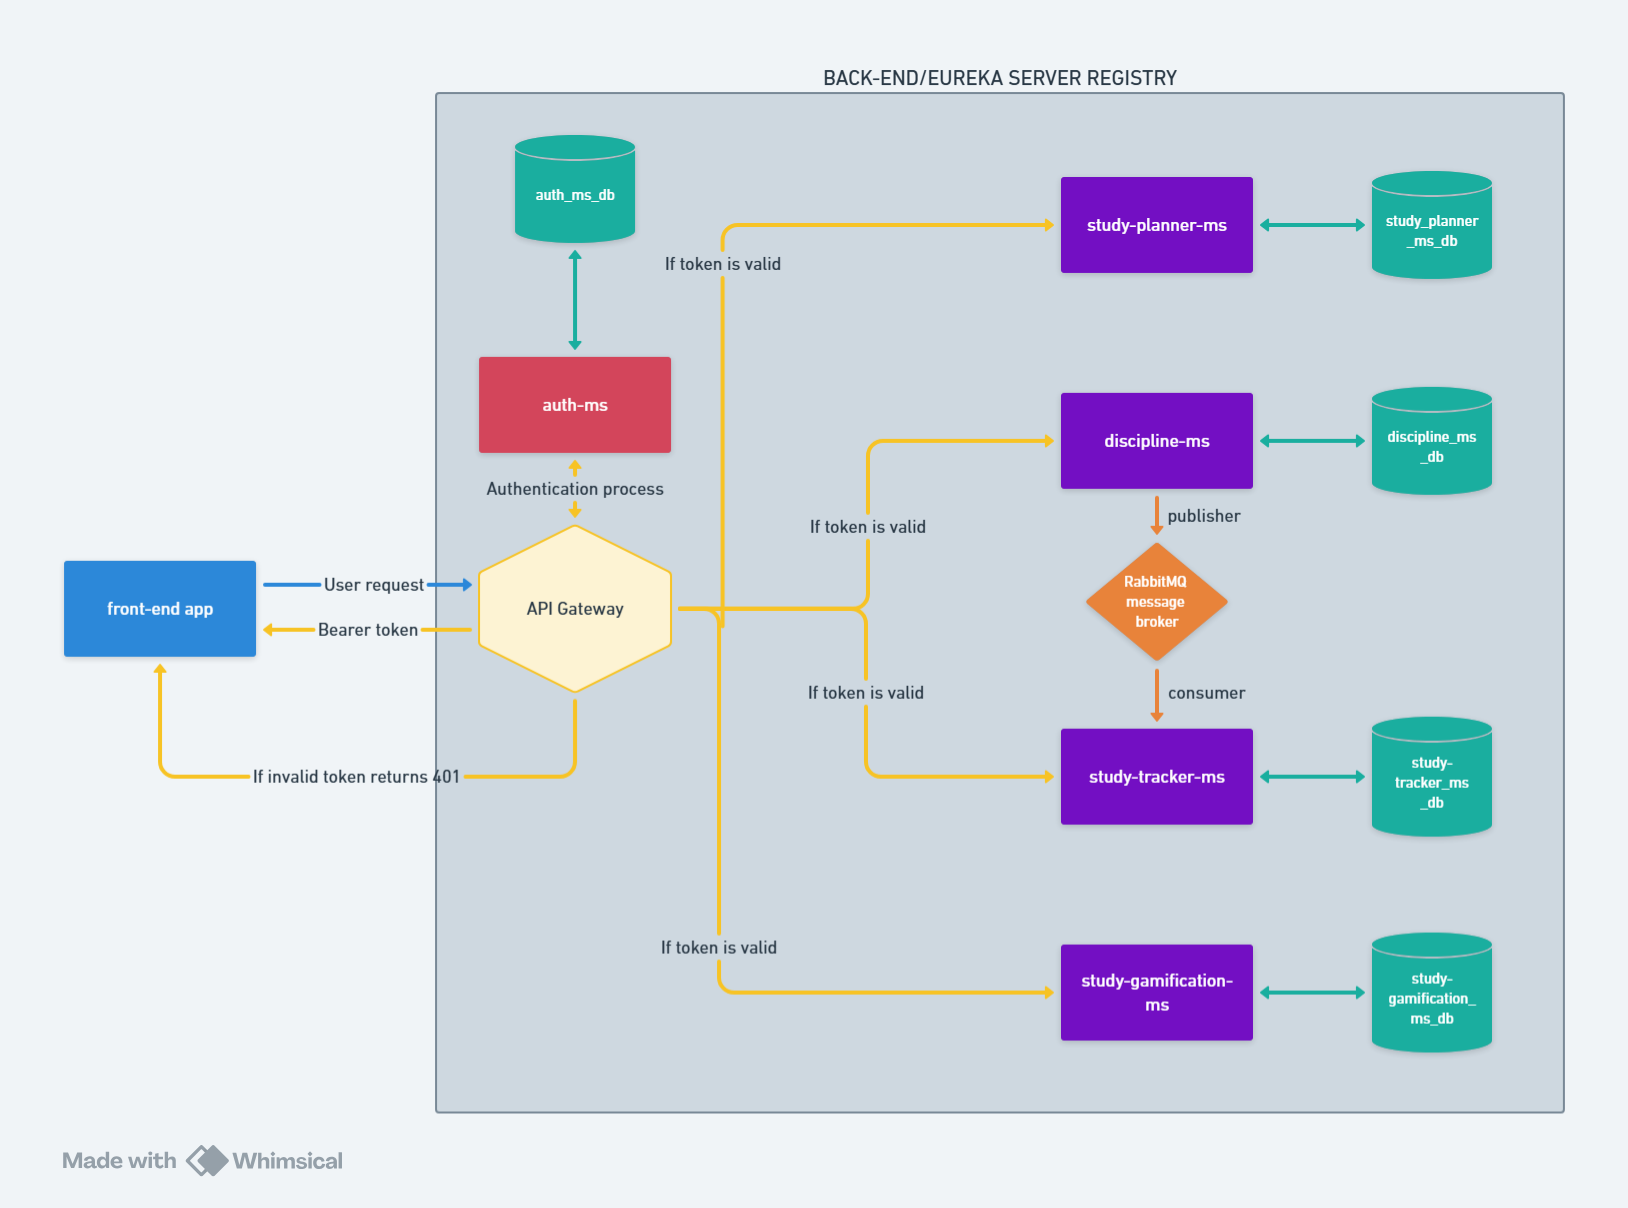
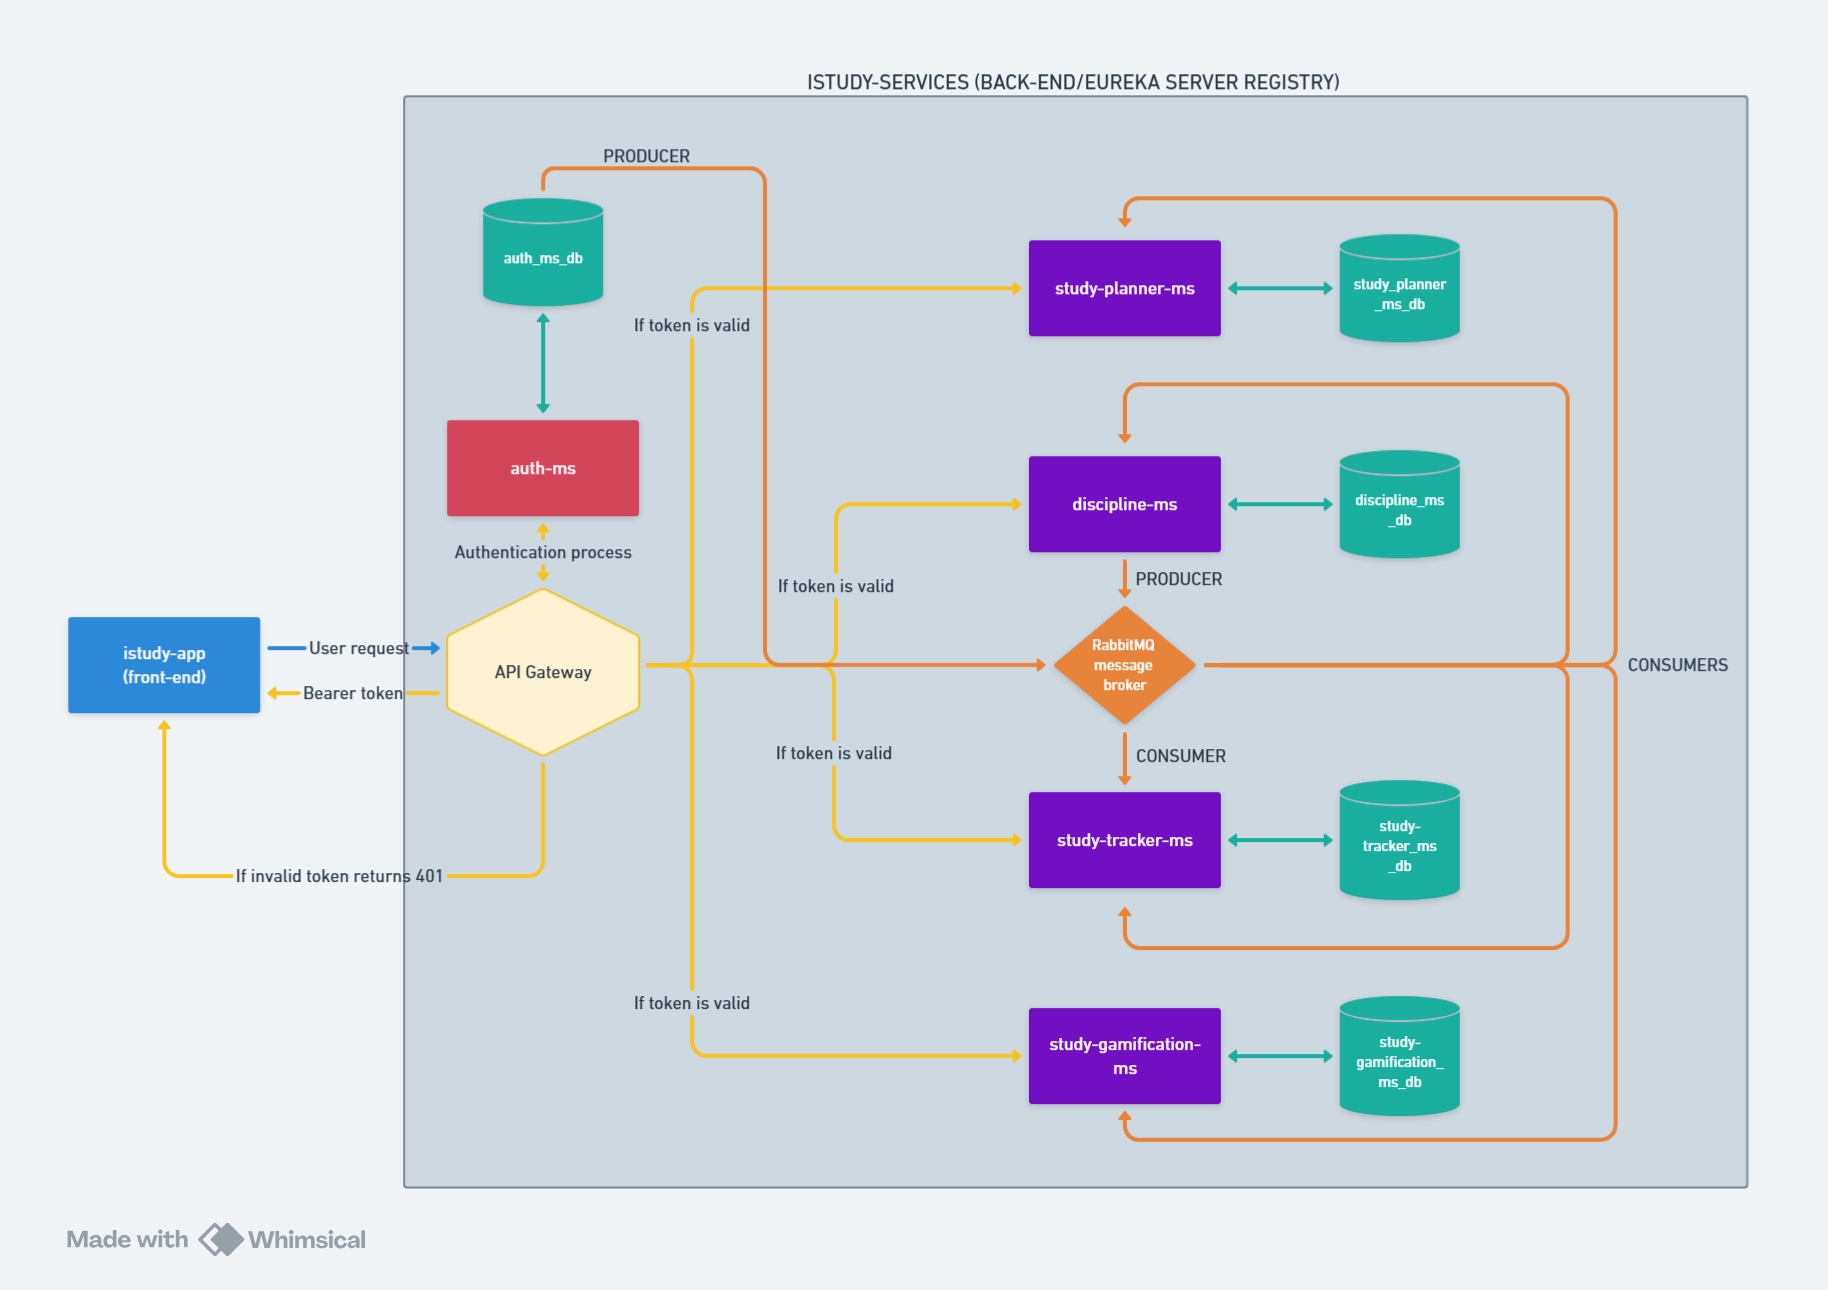
docs: update README

diff --git a/README-pt-br.md b/README-pt-br.md
@@ -24,21 +24,22 @@
 </br>
 
 # O que é o iStudy?
-O iStudy é uma plataforma web projetada para ajudar estudantes a organizar, gerenciar e acompanhar seus hábitos de estudo de forma eficiente. Entre seus diversos recursos estão:
+O iStudy é uma plataforma web projetada para ajudar estudantes a organizar, gerenciar e acompanhar de forma mais eficiente seus estudos e rotina acadêmica. Entre seus diversos recursos estão:
 
 - Cadastro e login de usuários;
 - Gerenciamento de disciplinas e seus tópicos;
-- Acompanhamento dos estudos, com base nas disciplinas e tópicos cadastrados;
-- Jogos de estudo, como flashcards e quizzes para reforçar o aprendizado;
-- Ferramentas de gerenciamento de tempo (cronômetro e timer Pomodoro);
-- Gerenciamento de cronograma e lembretes;
-- Gráficos com métricas de horas de estudo por disciplina, tópico e categoria (diárias, semanais e mensais).
+- Gerenciamento de sessões de estudo, com base nas disciplinas e tópicos cadastrados;
+- Gráficos de desempenho (diário, semanal e mensal), permitindo ao estudante uma melhor visualização do seu progresso de estudo ao longo do tempo;
+- Gamificação, com jogos de flashcards e quizzes para reforçar o aprendizado;
+- Ferramentas de gerenciamento de tempo (cronômetro e pomodoro timer);
+- Gerenciamento de cronograma semanal e lembretes;
+- Calendário.
 
 </br>
 
 # Estrutura do Projeto
 - `istudy-app`: Esta pasta contém o código do front-end da aplicação, desenvolvido com TypeScript, React.js e NextJS.
-- `istudy-services`: Esta pasta contém o back-end do sistema (Java/Spring Boot), que segue uma arquitetura de microsserviços utilizando o Spring Cloud API Gateway como interceptador de requisições e Spring Cloud Netflix (Eureka) para registro e descoberta de serviços.
+- `istudy-services`: Esta pasta contém o back-end do sistema (Java/Spring Boot), que segue uma arquitetura de microsserviços utilizando o Spring Cloud API Gateway como interceptador de requisições, Spring Cloud Netflix (Eureka) para registro e descoberta de serviços e RabbitMQ como broker de mensagens para comunicação assíncrona entre os microsserviços.
 
 ## Arquitetura do Sistema
 ![texto alternativo](docs/images/istudy_architecture.png)
@@ -103,7 +104,7 @@ O iStudy é uma plataforma web projetada para ajudar estudantes a organizar, ger
 
 * **Swiper js**: Biblioteca JavaScript gratuita e poderosa para criação de sliders e carrosséis modernos e responsivos.
 
-* **React card flip**: Componente que permite criar cartões que giram e revelam conteúdo ao interagir.
+* **Reactjs flip card**: Componente que permite criar cartões que giram e revelam conteúdo ao interagir.
 
 * **React calendar**: Componente de calendário leve e de fácil configuração.
 
@@ -160,7 +161,9 @@ docker-compose up --build
 ![alt text](docs/images/sign-up-page.jpg) 
 
 ### Página Inicial
-![alt text](docs/images/home-page.png) 
+![alt text](docs/images/home-page.jpeg) 
+#### Página Inicial: Modal de configurações da conta do usuário
+![alt text](docs/images/account-settings-modal.jpg)
 
 ### Página de Matérias
 ![alt text](docs/images/subject-page.jpg)
@@ -229,6 +232,9 @@ docker-compose up --build
 ##### Modal de Configurações do Pomodoro
 ![alt text](docs/images/pomodoro-settings-modal.jpg) 
 
+### Página não encontrada
+![alt text](docs/images/not-found-page.png) 
+
 </br>
 
 # iStudy-services - Back-End
@@ -276,6 +282,67 @@ docker-compose up --build
     "token": "ey..."
 }
 ```
+
+---
+
+### **PUT** `/users`
+- Atualiza as informações da conta de um usuário.
+
+#### Corpo da requisição
+- `UpdateAccountDto`:
+
+```json
+{
+  "name": "username updated",
+  "email": "user@email.com",
+  "currentPassword": "pass1234",
+  "newPassword": "newPass" //Opcional. Apenas preencha se for atualizar a senha.
+}
+```
+
+#### Corpo de resposta de sucesso
+
+```json
+Account updated successfully!
+```
+
+---
+
+### **DELETE** `/users`
+- Deleta a conta do usuário e todas as informações relacionadas a ela.
+
+#### Corpo da requisição
+- `DeleteAccountDto`:
+
+```json
+{
+  "password": "pass1234"
+}
+```
+
+#### Corpo de resposta de sucesso
+
+```json
+Account deleted successfully!
+```
+
+---
+
+### **GET** `/users/{id}`
+- Retorna as informações do usuário dado um id (se ele for o do usuário autenticado).
+
+#### Corpo de resposta de sucesso
+- `User`:
+
+```json
+{
+  "id": "c7019a95-90f1...",
+  "name": "user",
+  "email": "user@email.com"
+}
+```
+
+---
 
 </br>
 

diff --git a/README.md b/README.md
@@ -24,21 +24,22 @@
 </br>
 
 # What is iStudy?
-iStudy is a web platform designed to help students efficiently organize, manage, and track their study habits. Among its many features are:
+iStudy is a web platform designed to help students organize, manage, and track their studies and academic routine more efficiently. Among its various features are:
 
 - User registration and login;
 - Management of subjects and their topics;
-- Study tracking, based on registered subjects and topics;
-- Study games, such as flashcards and quizzes to reinforce learning;
-- Time management tools (Stopwatch and Pomodoro timer);
-- Schedule and reminder management;
-- Dashboards with metrics of study hours per subject, topic, and category (daily, weekly, and monthly).
+- Management of study sessions based on the registered subjects and topics;
+- Performance charts (daily, weekly, and monthly), allowing students to better visualize their study progress over time;
+- Gamification, with flashcard and quiz games to reinforce learning;
+- Time management tools (stopwatch and Pomodoro timer);
+- Weekly schedule and reminder management;
+- Calendar.
 
 </br>
 
 # Project Structure
 - `istudy-app`: This folder contains the front-end code of the application, built with TypeScript, React.Js and NextJS.
-- `istudy-services`: This folder contains the system's back-end (Java/Spring Boot), which follows a microservices architecture using Spring Cloud API Gateway as a request interceptor and Spring Cloud Netflix (Eureka) for service registration and discovery.
+- `istudy-services`: This directory contains the back-end of the system, built with Java and Spring Boot, following a microservices architecture. It leverages Spring Cloud API Gateway to handle and route incoming requests, uses Spring Cloud Netflix (Eureka) for service registration and discovery, and integrates RabbitMQ as a message broker for asynchronous communication between the microservices.
 
 ## System Architecture
 ![alt text](docs/images/istudy_architecture.png)
@@ -103,7 +104,7 @@ iStudy is a web platform designed to help students efficiently organize, manage,
 
 * **Swiper js**: A powerful, free, and open-source JavaScript library for creating modern, touch-friendly sliders and carousels.
 
-* **React card flip**: A specific library or component that allows you to create a card that animates to reveal content on its back when clicked or interacted withxt.
+* **Reactjs flip card**: A specific library or component that allows you to create a card that animates to reveal content on its back when clicked or interacted withxt.
 
 * **React calendar**: A lightweight and easily configurable calendar component.
 
@@ -162,7 +163,9 @@ docker-compose up --build
 ![alt text](docs/images/sign-up-page.jpg) 
 
 ### Home page
-![alt text](docs/images/home-page.png) 
+![alt text](docs/images/home-page.jpeg)
+#### Home page: User account settings modal
+![alt text](docs/images/account-settings-modal.jpg)
 
 ### Subject page
 ![alt text](docs/images/subject-page.jpg)
@@ -231,6 +234,9 @@ docker-compose up --build
 ##### Time tracker: Pomodoro settings modal
 ![alt text](docs/images/pomodoro-settings-modal.jpg) 
 
+### Not found Page
+![alt text](docs/images/not-found-page.png) 
+
 </br>
 
 # iStudy-services - Back-End
@@ -277,6 +283,66 @@ docker-compose up --build
     "token": "ey..."
 }
 ```
+---
+
+### **PUT** `/users`
+- Updates a user's account information.
+
+#### Request Body
+- `UpdateAccountDto`:
+
+```json
+{
+  "name": "username updated",
+  "email": "user@email.com",
+  "currentPassword": "pass1234",
+  "newPassword": "newPass" //Optional. Only fill in if you are going to update the password.
+}
+```
+
+#### Success Response Body
+
+```json
+Account updated successfully!
+```
+
+---
+
+### **DELETE** `/users`
+- Deletes the user account and all information related to it.
+
+#### Request Body
+- `DeleteAccountDto`:
+
+```json
+{
+  "password": "pass1234"
+}
+```
+
+#### Success Response Body
+
+```json
+Account deleted successfully!
+```
+
+---
+
+### **GET** `/users/{id}`
+- Returns the information of the user with the given ID, if it matches the authenticated user.
+
+#### Success Response Body
+- `User`:
+
+```json
+{
+  "id": "c7019a95-90f1...",
+  "name": "user",
+  "email": "user@email.com"
+}
+```
+
+---
 
 </br>
 
